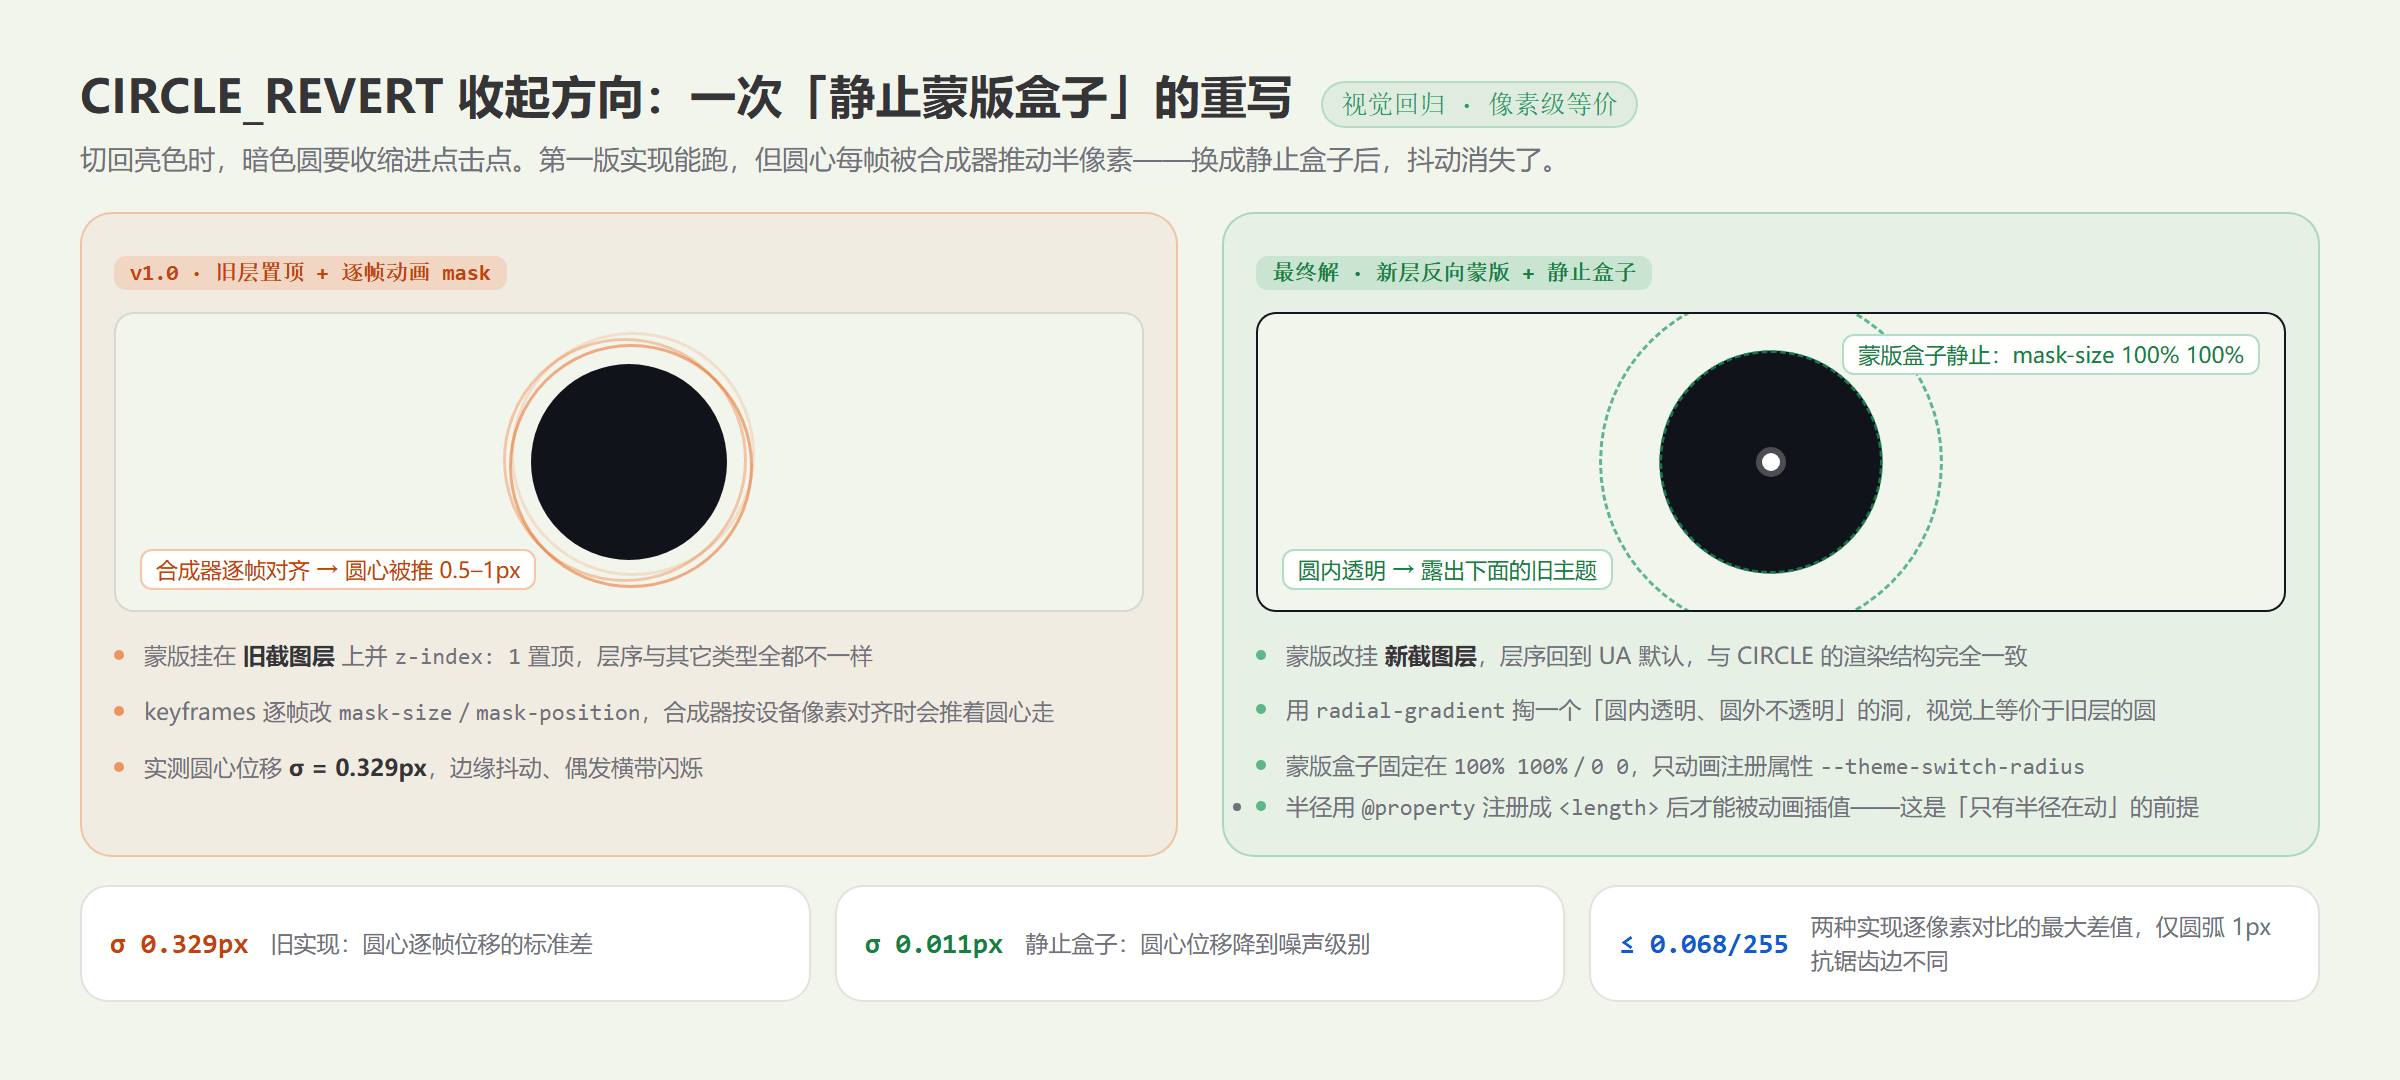
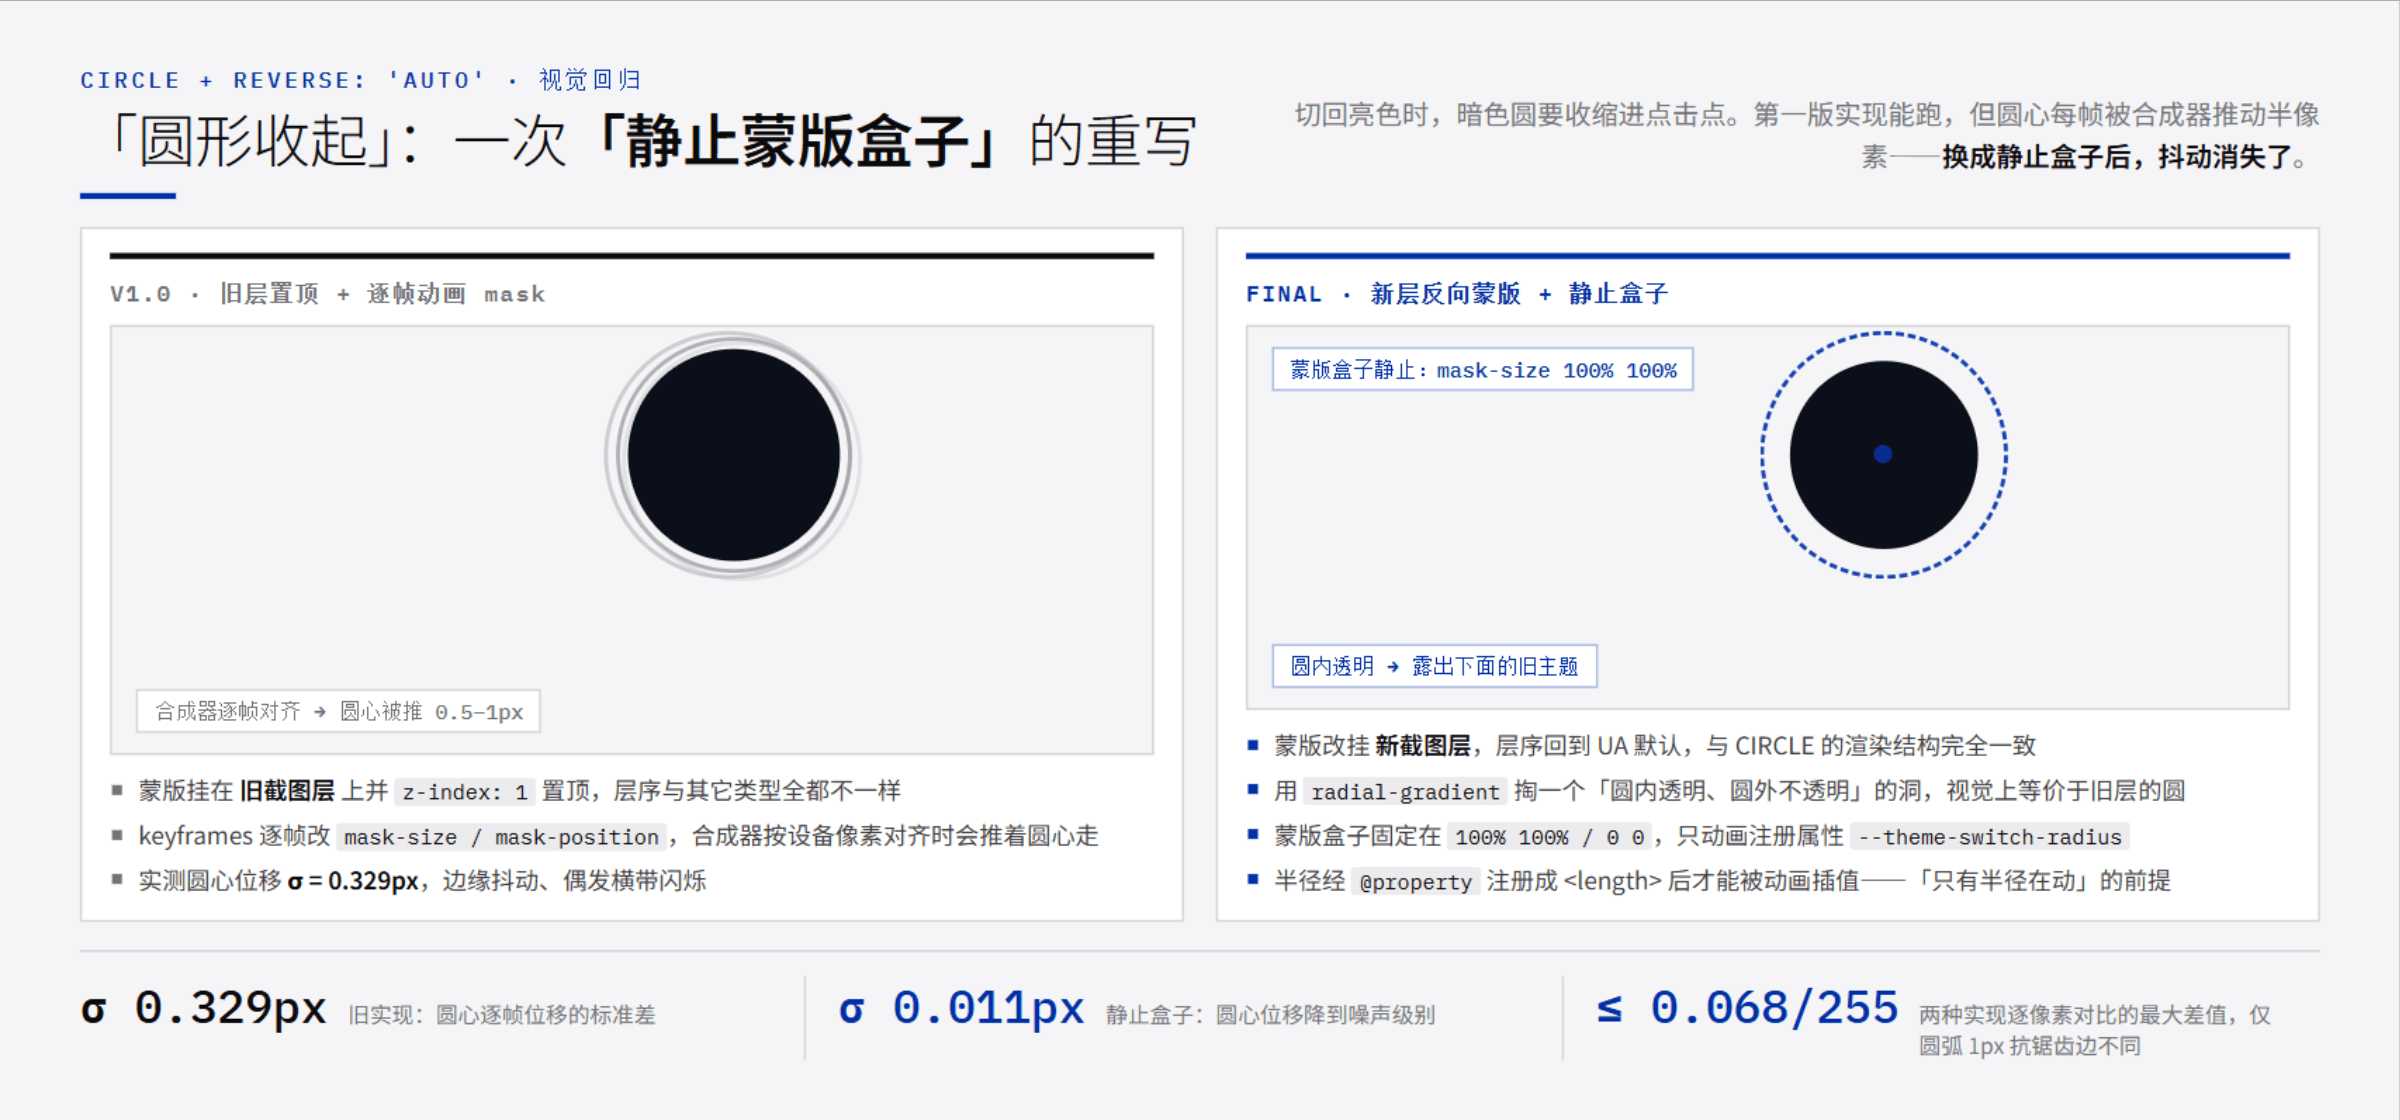
docs(blog): theme-switch-animation 文章对齐库 v0.5.1（15 种类型、reverse 选项），六张配图重绘为瑞士克莱因蓝风格并压缩（3080KB→1092KB）

diff --git a/src/data/blog/theme-switch-animation/index.md b/src/data/blog/theme-switch-animation/index.md
@@ -1,7 +1,8 @@
 ---
-title: "Vibecoding 一个主题切换动画库：13 种揭幕方式"
-description: "记录一个跨框架主题切换动画库的设计与实现：基于 View Transitions API 与纯 mask 动画，如何推导蒙版几何、让 13 种动画类型共用一套代码、把「圆形收起」重写成静止蒙版盒子，以及怎样在不抢状态管理的前提下接入 next-themes 与 @nuxtjs/color-mode。"
+title: "Vibecoding 一个主题切换动画库：15 种揭幕方式"
+description: "这篇文章记录一个跨框架主题切换动画库的设计与实现：如何推导蒙版几何、让 15 种动画类型共用一套代码、把「圆形收起」重写成静止蒙版盒子并长成 reverse 选项，以及怎样在不抢状态管理的前提下接入 next-themes 与 @nuxtjs/color-mode。"
 pubDatetime: 2026-09-16T09:51:00+08:00
+modDatetime: 2026-10-17T01:21:00+08:00
 tags:
   - AI
   - AI 编程
@@ -14,25 +15,27 @@ draft: false
 
 有一天我在想：如果新主题不是「替换」旧主题，而是从你点击的位置「长」出来、扩散着把旧主题揭开，会不会好很多？
 
-于是有了 [theme-switch-animation](https://www.npmjs.com/package/theme-switch-animation)：一个基于 View Transitions API 的主题切换动画库，支持 React 18+、Vue 3+、Next.js App Router 与 Nuxt 3+，内置 13 种动画类型，可受控也可非受控，浏览器不支持时自动降级。
+于是有了 [theme-switch-animation](https://www.npmjs.com/package/theme-switch-animation)：一个基于 View Transitions API 的主题切换动画库，支持 React 18+、Vue 3+、Next.js App Router 与 Nuxt 3+，内置 15 种动画类型与 `direction` / `waveWidth` / `bladeCount` / `reverse` 等参数化选项，可受控也可非受控，浏览器不支持时自动降级。
 
 这个项目是我用 vibecoding 的方式做出来的：需求、技术选型、行为契约和验收标准由我定，代码主要由 AI 写。但下面这几个坑——半像素抖动、受控模式的 DOM 同步、Nuxt 的自动导入——都是靠真机实测和逐像素对比才收敛的，AI 的第一版同样会翻车。
 
-这篇文章把它拆开讲讲：**为什么只能用 mask、蒙版要算多大、13 种类型怎么共用一套代码、以及两个真正花了时间的坑**。
+这篇文章把它拆开讲讲：**为什么只能用 mask、蒙版要算多大、15 种类型怎么共用一套代码、以及两个真正花了时间的坑**。
 
-## 13 种类型都是什么效果
+## 15 种类型都是什么效果
 
-先看结果。下面每一格都是同一次切换进行到约 60% 时的画面：亮色是已经揭开的新主题，暗色是尚未被覆盖的旧主题，紫色标记处就是触发按钮的中心。
+先看结果。下面每一格都是同一次切换进行到约 60% 时的画面：亮色是已经揭开的新主题，暗色是尚未被覆盖的旧主题，蓝色标记处就是触发元素的中心。
 
-![13 种动画类型的动画中段对比：圆形扩散、圆形收起、圆形模糊、四向擦除与六种中心扩散形状](./02-animation-types-overview.png)
+![15 种动画类型的动画中段对比：中心扩散形状族、条带与格子族、波形与角度族，右下角信息卡标注了三条实现公约](./02-animation-types-overview.png)
 
 按实现归类其实只有三族：
 
 | 族 | 类型 | 蒙版形制 |
 | --- | --- | --- |
-| 中心扩散形状族 | `CIRCLE` `SQUARE` `DIAMOND` `RECTANGLE` `HEXAGON` `TRIANGLE` `STAR` | SVG data-URI 形状，从触发点 0 尺寸长到覆盖视口 |
-| 四向擦除 | `LTR` `RTL` `TTB` `BTT` | `linear-gradient` 实心细条，尺寸从 4px 长到 100% |
-| 特殊 | `CIRCLE_REVERT`（方向感知的圆）、`CIRCLE_BLUR`（边缘高斯模糊的圆） | 反向蒙版「洞」/ 模糊烘焙进 SVG |
+| 中心扩散形状族 | `CIRCLE` `CIRCLE_BLUR` `SQUARE` `DIAMOND` `RECTANGLE` `HEXAGON` `TRIANGLE` `STAR` | SVG data-URI 形状，从触发点 0 尺寸长到覆盖视口 |
+| 条带与格子族 | `BLINDS`（百叶窗）`SCAN`（扫描）`QR_GRID`（方块格子）`CURTAIN`（双开门） | `@property` 注册属性 + 静止蒙版盒子，无触发点，`direction` 控制方向 |
+| 波形与角度族 | `RIPPLE`（水滴涟漪）`CLOCK_SWEEP`（时钟扇形）`FAN`（扇叶旋开） | 同一机制，把触发点写进渐变串作波源 / 轴心 |
+
+其中 9 个类型还支持 `reverse` 选项把「揭开」整个反过来：新主题从四周显出、向触发点收拢。各类型逐个的动态观感与参数档位，文档站上有完整画廊。
 
 ```bash
 pnpm add theme-switch-animation
@@ -58,8 +61,11 @@ export function runThemeTransition(params: RunThemeTransitionParams): RunThemeTr
 
   const viewport = getViewportSize(doc)
   const center = getTriggerCenter(trigger, viewport)
+  const toDark = nextIsDark ?? !hasThemeClass(doc, resolved.darkClassName)  // reverse: 'auto' 判方向用
   const geometry = getMaskGeometry(resolved.animationType, center, viewport, resolved.blurAmount)
-  const css = buildAnimationCSS({ animationType: resolved.animationType, geometry, ...resolved })
+  //  ^ 形状族走 mask-size / mask-position 路径；条带 / 格子 / 波形 / 角度族与各反向形态
+  //    走「静止蒙版盒子 + 注册属性」的 reveal 分支，最终都汇进同一次 buildAnimationCSS
+  const css = buildAnimationCSS({ animationType: resolved.animationType, geometry, ... })
   const node = injectAnimationStyle(doc, css)   // 向 <head> 注入一份临时样式
 
   const transition = doc.startViewTransition(wrapped)  // wrapped 内部调用 domUpdate()
@@ -137,9 +143,9 @@ export function getCircleMaskGeometry(center: Point, viewport: Size): MaskGeomet
 - **`mask-position` 必须跟着动。** CSS 的 mask 尺寸变化是以左上角为原点的，只改 `mask-size` 会让圆从左上角「长大」，而不是从按钮长出来。终态的 `mask-position` 取「圆心坐标减去一半边长」，圆心就钉住了。
 - **所有几何值一律取整到整数 px。** `Math.hypot` 的结果是无理数，而快照层逐帧动画 mask 时，分数像素偏移会在 GPU 栅格化（尤其在 Windows 分数缩放下）暴露 1px 级接缝，表现为边缘偶发的「线条抖动」。取整损失 ≤0.5px，而 2.1 倍的余量远大于它，安全性无虞。
 
-## 13 种类型怎么共用一套实现
+## 15 种类型怎么共用一套实现
 
-搞懂圆形之后，剩下 12 种基本都是同一个套路：**换蒙版图形，几何计算按形状的内切半径重新推**。中心扩散的形状族全部走同一个函数：
+搞懂圆形之后，形状族的其余 6 个几何形状基本都是同一个套路：**换蒙版图形，几何计算按形状的内切半径重新推**。中心扩散的形状族全部走同一个函数：
 
 ```ts
 function pinCenterGeometry(maskImage: string, center: Point, endSize: Size): MaskGeometry {
@@ -165,24 +171,13 @@ function pinCenterGeometry(maskImage: string, center: Point, endSize: Size): Mas
 
 这里有一个**故意偏离参考实现**的决定：五角星的外接圆我取了 `2.5 × maxRadius`，而常见实现只取约 `1.45 ×`。原因是它们的蒙版走 `clip-path`，会随转场组一起销毁，末帧角落透出旧主题无所谓；而 mask 在样式移除前是**持续生效**的（`animation-fill-mode: both`），一旦盖不满，用户就会看到四个角残留旧主题。形状好不好看是次要的，盖得住是硬要求。
 
-四向擦除则完全不用改几何，靠 CSS 的百分比 `mask-position`「钉边」：
-
-```ts
-const DIRECTIONAL_START = {
-  [ThemeAnimationType.LTR]: { size: `${BAR_START_PX}px 100%`, position: '0% 0%' },   // 钉左
-  [ThemeAnimationType.RTL]: { size: `${BAR_START_PX}px 100%`, position: '100% 0%' },  // 钉右
-  [ThemeAnimationType.TTB]: { size: `100% ${BAR_START_PX}px`, position: '0% 0%' },    // 钉上
-  [ThemeAnimationType.BTT]: { size: `100% ${BAR_START_PX}px`, position: '0% 100%' },  // 钉下
-}
-```
-
-起始是一条 4px 的细条，被钉住的那条边不动，尺寸长到 `100% 100%`，就得到了从该边向对侧擦除的效果——`mask-image` 甚至是零成本的一句话：`linear-gradient(#fff, #fff)`。
-
 至于 `CIRCLE_BLUR`，模糊是用 `feGaussianBlur` **烘焙进 SVG 蒙版本身**的（不是 CSS `filter`，那样 Safari 会有兼容问题），并且**只挂新层**：旧层完整垫底，蒙版外是旧主题，直到模糊圆扫过。如果两层同蒙版，模糊区外露出的会是已翻转的实时页面——主题瞬间全变，糊的只是边缘。
 
-## CIRCLE_REVERT：方向感知，与一次「静止盒子」重写
+剩下的条带与格子族、波形与角度族走的是另一条路线，而那条路线恰好来自下文那次「静止盒子」重写——先按下不表。
 
-`CIRCLE_REVERT` 想表达的语义是：切到暗色时，暗色圆从点击处扩散；切回亮色时，暗色圆**收回**点击处。同一个按钮，来回切换自然产生一次扩散、一次收起，没有额外的隐藏状态。
+## 「圆形收起」：方向感知，与一次「静止盒子」重写
+
+「圆形收起」（首发时叫 `CIRCLE_REVERT`，今天是 `CIRCLE + reverse: 'auto'`）想表达的语义是：切到暗色时，暗色圆从点击处扩散；切回亮色时，暗色圆**收回**点击处。同一个按钮，来回切换自然产生一次扩散、一次收起，没有额外的隐藏状态。
 
 方向怎么判断？在非受控模式下，转场前 `<html>` 的类名就是「当前旧主题」，toggle 之后必为取反；受控模式下外部系统可能写的是 `data-theme` 而不是 class，从类名反推会永远判成「扩散」，所以 `runThemeTransition` 提供了一个显式参数：
 
@@ -192,7 +187,7 @@ const toDark = nextIsDark ?? !hasThemeClass(doc, resolved.darkClassName)
 
 但在「收起」这个方向上，第一版实现翻了车。
 
-![CIRCLE_REVERT 收起方向的两版实现对比：旧层置顶 + 逐帧动画 mask 会抖动，改为新层反向蒙版 + 静止蒙版盒子后位移降到噪声级别](./04-circle-revert-hole-mask.png)
+![圆形收起方向的两版实现对比：旧层置顶 + 逐帧动画 mask 会抖动，改为新层反向蒙版 + 静止蒙版盒子后位移降到噪声级别](./04-circle-revert-hole-mask.png)
 
 第一版是把蒙版挂到**旧截图层**上并 `z-index: 1` 置顶，然后逐帧动画 `mask-size` / `mask-position`，让暗色圆收缩。功能上能跑，但合成器会按设备像素对齐蒙版盒子，逐帧推着圆心走——实测圆心位移的标准差 `σ = 0.329px`，视觉上就是边缘抖动、偶尔闪过一条横带。
 
@@ -213,9 +208,11 @@ const toDark = nextIsDark ?? !hasThemeClass(doc, resolved.darkClassName)
     #000      calc(var(--theme-switch-radius) + 0.5px));
   mask-size: 100% 100%;
   mask-position: 0 0;
-  animation: theme-switch-circle-revert var(--theme-switch-duration, 750ms) both;
+  mask-repeat: no-repeat;
+  animation: theme-switch-circle var(--theme-switch-duration, 750ms)
+    var(--theme-switch-easing, ease-in-out) both;
 }
-@keyframes theme-switch-circle-revert {
+@keyframes theme-switch-circle {
   from { --theme-switch-radius: 490px; }
   to   { --theme-switch-radius: 0px; }
 }
@@ -223,7 +220,33 @@ const toDark = nextIsDark ?? !hasThemeClass(doc, resolved.darkClassName)
 
 改动之后：圆心位移降到 `σ = 0.011px`（噪声级别），而新旧两种实现的渲染结果逐像素比对，最大差值 `≤ 0.068/255`，只出现在圆弧那 1px 抗锯齿边上——**视觉等价，但不再抖**。
 
-顺带一个冷知识：`@property` 注册的自定义属性是全局的、无法注销，所以变量名加了 `--theme-switch-` 前缀避免撞名。
+顺带一个冷知识：`@property` 注册的自定义属性是全局的、无法注销，所以变量名加了 `--theme-switch-` 前缀避免撞名。这个冷知识后来还二次生效——角度族想复用同一个变量注册 `<angle>` 时被规范拦下（syntax 一经注册不可改），只好另开了一个 `--theme-switch-sweep`。
+
+## 一次重写，长成了半个库
+
+「`@property` 注册属性 + 静止蒙版盒子」这个修法没有停留在圆形收起上，它后来成了半个库的地基：
+
+- **0.2.0**：新增 `BLINDS` / `SCAN` / `QR_GRID` 三种类型，全部走这套机制，同时把「四个方向」从动画类型降级成普通选项 `direction`——`LTR` / `RTL` / `TTB` / `BTT` 四个类型删除，由 `SCAN + direction` 承接，观感差异只有前缘多一条 12px 半透明光束带；
+- **0.3.0**：`RIPPLE` 把渐变换成 `radial-gradient`、把波源中心写进串里，`CLOCK_SWEEP` / `FAN` 用 `conic-gradient` 从角度维度揭开——角度覆盖的是方向而非面积，所以它们连「终半径要够到视口最远角」的系数都省了；
+- **0.4.0**：`CIRCLE_REVERT` 作为类型被删除，「切暗扩散、切亮收起」的语义并入三态选项 `reverse: 'auto'`，还想无论切哪个方向都收拢可以写 `reverse: true`（这是当年没有的形态）。`reverse` 目前已接入 9 个类型；`HEXAGON` / `TRIANGLE` / `STAR` 维持不接入——它们的反向必须动 `mask-size`，会重新引入刚修完的像素对齐抖动，做不到无副作用。
+
+```tsx
+// 0.3.x
+useThemeAnimation({ animationType: ThemeAnimationType.CIRCLE_REVERT })
+
+// 0.4.0
+useThemeAnimation({ animationType: ThemeAnimationType.CIRCLE, reverse: 'auto' })
+```
+
+```tsx
+// 0.1.x
+useThemeAnimation({ animationType: ThemeAnimationType.RTL })
+
+// 0.2.0
+useThemeAnimation({ animationType: ThemeAnimationType.SCAN, direction: 'rtl' })
+```
+
+回头看相当有意思：为了消灭半像素抖动发明的一个小机制，最后反过来收纳了新增类型的全部复杂度——`CURTAIN`（双开门）落进现成 dispatcher 时，编排层一行都没改。
 
 ## 受控模式：不抢状态管理，只是「等」
 
@@ -332,6 +355,8 @@ export default defineConfig({
 | 浏览器不支持 View Transitions（Safari < 18、Firefox < 144 等） | 直接切换，无动画，状态正确 |
 | `prefers-reduced-motion: reduce` | 直接切换，无动画 |
 | SSR 渲染阶段 | 不触碰 `window` / `document` / `localStorage`，无 hydration 报错 |
+| `@property` 不可用（极旧引擎） | 属性驱动类型退化为直切，状态正确 |
+| 引擎不支持 `mask-composite: intersect` | `QR_GRID` 方块格自动降级为推进轴单层条带（观感同百叶窗），状态正确 |
 | 受控模式外部系统 300ms 未同步 | 跳过转场直切，不播放「旧 → 旧」空转 |
 | 快速连点 | 浏览器中止前一轮转场，状态不受影响，无 `unhandledrejection` |
 | `localStorage` 不可用（隐私模式 / 跨域 iframe） | 静默跳过持久化，状态仍以 `<html>` 类名为准 |
@@ -370,6 +395,8 @@ function ThemeButton() {
 }
 ```
 
+除了类型与时长，还有一组按类型消费的参数化选项：`direction`（`BLINDS` / `SCAN` / `QR_GRID` 控扫开方向与锚定，`CURTAIN` 控开合轴）、`slatWidth`（百叶窗叶宽）、`cellSize` / `cellShape`（格子格距与方块 / 圆点形状）、`waveWidth`（涟漪波长）、`bladeCount`（扇叶数）、`reverse`（反向揭开，9 个类型已接入）——越界或非法值一律静默回落默认，不抛错。
+
 Vue 3：
 
 ```vue
@@ -401,7 +428,8 @@ const { resolvedTheme, setTheme } = useNextThemes()
 const { ref, toggleTheme } = useThemeAnimation({
   isDark: resolvedTheme === 'dark',
   onChange: (next) => setTheme(next ? 'dark' : 'light'),
-  animationType: ThemeAnimationType.CIRCLE_REVERT,
+  animationType: ThemeAnimationType.CIRCLE,
+  reverse: 'auto',   // 切暗向外扩散、切亮向触发点收起
 })
 ```
 
@@ -410,7 +438,7 @@ const { ref, toggleTheme } = useThemeAnimation({
 回头看，这个库真正的难点其实不在动画本身，而在几件容易被当成「边角料」的事：
 
 - **蒙版几何**：从触发点算到视口最远角，圆心靠 `mask-position` 钉住，所有值取整到整数 px；
-- **层序**：蒙版只挂新层、旧层完整垫底；收起方向用「新层上的洞」替代「旧层置顶」，顺手消掉了半像素抖动；
+- **层序**：蒙版只挂新层、旧层完整垫底；收起方向用「新层上的洞」替代「旧层置顶」，顺手消掉了半像素抖动——这次重写后来还长成了属性驱动族与 `reverse` 选项；
 - **等，而不是替**：受控模式下让外部主题系统自己写 DOM，库只观察、只兜底；
 - **状态优先于动画**：任何环境、任何超时、任何连点，`isDark` 与类名都必须是对的。
 
